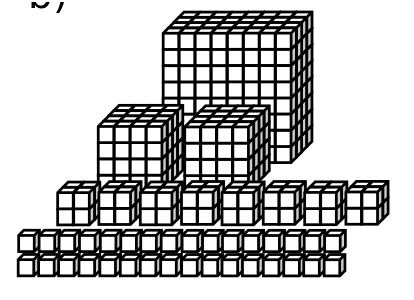
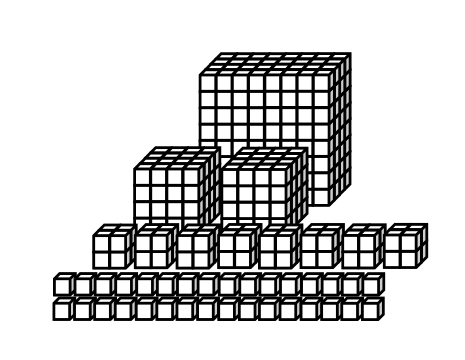
draft fragmentation 15april

diff --git a/docs/fragmentation.html b/docs/fragmentation.html
@@ -80,11 +80,11 @@
 	
 	<p>
 	Plastic fragments make up the majority of oceanic plastic pollution in terms of abundance. How plastics fragment, and how this can be modelled is not yet well understood, however.
-	In this work, we have taken a fragmentation model which has been used before to model how rocks fragment over time <a href="#references">[1]</a>. 
+	In this work, we take a fragmentation model which has been used to model how rocks fragment over time <a href="#references">[1]</a>. 
 	This fragmentation model breaks down objects in a cascading fashion: fragments split off from an initial object, and smaller fragments are split off from the newly created fragments repeatedly. 
 	We then calibrate the fragmentation model to data from experimental studies on plastic fragmentation.
 	</p>
-	The fragmentation model is coupled to a simple box model, in which plastic particles can travel between the beach, coastal water, and open ocean. 
+	The fragmentation model is coupled to a conceptual box model, in which plastic particles can travel between the beach, coastal water, and open ocean. 
 	Fragmentation is assumed to only happen on the beach, and size-dependent transport processes are added to the model, such as vertical mixing in the water column, beaching, and resuspension.
 	The box model is calibrated to represent <a href="mediterranean.html">plastic transport in the Mediterranean Sea</a>.  
 	</p>
@@ -95,7 +95,6 @@
     	<small>author: <a href="https://www.uu.nl/medewerkers/MLAKaandorp">Mikael Kaandorp</a>, date: April 2021</small>
     </p>
     <a href="#abstract_expanded" class="collapsed btn btn-primary" data-toggle="collapse" aria-expanded="true">Read the scientific abstract</a>
-	<a class="collapsed btn btn-primary" href="#results">Go to the results</a>
 	<a class="collapsed btn btn-primary" href="https://iopscience.iop.org/article/10.1088/1748-9326/abe9ea"  target="_blank">Go to the article in Environmental Research Letters</a>
 	
   <div id="abstract_expanded" class="collapse" role="tabpanel">
@@ -129,10 +128,19 @@
     </div>
     <div class="col align-self-center">
     <p class="card-text">
-	In the TOPIOS project, we try to get an overview of where all the plastics are in the marine environment. What are the sources of marine plastics, how are they transported, and where do they end up?
+	In the TOPIOS project, we try to get an overview of where all the plastics are in the marine environment. 
+	What are the sources of marine plastics, how are they transported, and where do they end up?
     </p>
     <p>
-	Majority of pollution in terms of abundance, no real models exist, so hard to quantify its effect on the mass budget
+	Previously, we have estimated the most important <a href="mediterranean.html">sources and sinks of marine plastics in the Mediterranean Sea.</a> 
+	In that study, we neglected the effect of fragmentation, based on the fact that the time scale of this process as an environmental sink of plastics 
+	is likely much longer than other sinks such as beaching and sinking of plastics <a href="#references">[2]</a>.
+	</p>
+	<p>	
+	However, we know that fragmentation plays an important role as a source of secondary microplastics <a href="#references">[3]</a>. 
+	For example, in the lower figure we see plastic fragments collected in the surface water of the North Atlantic Gyre. Most of the plastic particles are clearly fragments from bigger objects.
+	We see that fragments dominate plastic pollution in terms of abundance. Models for plastic fragmentation are lacking, however, and its effect on the plastic mass budget is relatively unknown.
+	The goal of this research is to fill these missing gaps of knowledge.  
     </p>
     </div>
   </div>
@@ -148,7 +156,20 @@
     </div>
     <div class="col align-self-center">
       <p class="card-text">
-		"Lorem ipsum dolor sit amet, consectetur adipiscing elit, sed do eiusmod tempor incididunt ut labore et dolore magna aliqua. Ut enim ad minim veniam, quis nostrud exercitation ullamco laboris nisi ut aliquip ex ea commodo consequat. Duis aute irure dolor in reprehenderit in voluptate velit esse cillum dolore eu fugiat nulla pariatur. Excepteur sint occaecat cupidatat non proident, sunt in culpa qui officia deserunt mollit anim id est laborum."
+		Plastic pollution is dominated by fragments when looking at the total number of particles. Most of the fragments which are found in the surface water of the 
+		ocean are only a couple of millmeters in size.
+	</p>
+	<p>
+		We can quantify the sizes of the plastic particles that we find using a Particle Size Distribution (PSD). One example is plotted in the lower
+		figure, using observational data from the surface water by <a href="#references">Cozar et al. (2015) [4]</a>. The length of the particles is plotted on the x-axis,
+		the amount of particles at this given length is plotted on the y-axis. Note the log-log scale here.
+	</p>
+	<p>
+		What has been observed, is that a large part of the Particle Size Distribution follows a power law, leading to a straight line 
+		on a log-log scale. Power laws are very interesting mathematical relations which have been found in many fields of study, 
+		ranging from city population sizes to the number of citations per scientific paper <a href="#references">[5]</a>.
+		Power laws are often observed in scale invariant processes, which means that a process acts similarly on all kinds of (spatial) scales.
+		One can think of fractals, where however far one zooms in into an image, the same structure is observed. 
 	</p>
     </div>
   </div>
@@ -157,19 +178,36 @@
 
   <h2 id="fragmentation">A fragmentation model from outer space</h2>
   <div class="row">
-    <div class="col-lg-7" style="margin-bottom: 20px">
+    <div class="col-lg-6" style="margin-bottom: 20px">
       <img src="images/fragmentation/Cubes.png" style="text-align: center" width=80% alt="">
     	<iframe style="position: relative; height: 400px; width: 100%;"
-		src="https://www.youtube.com/embed/fqn7rDfHqU0?version=3&loop=1&playlist=fqn7rDfHqU0">
+		src="https://www.youtube.com/embed/5uRT0A2N__A?version=3&loop=1&playlist=5uRT0A2N__A">
 		</iframe> 
     </div>
     <div class="col align-self-center">
     <p class="card-text">
-		The virtual plastic particles are released at different locations, where we expect a lot of plastic input, see the figure on the left. 
+		Scale invariant behavior has been observed in the fragmentation of rocks, leading to power laws when looking for example at grain sizes in soils <a href="#references">[7]</a>. 
+    	In our work, we have taken an existing fragmentation model from soil science, and adapted it to our problem of plastic pollution.
     </p><p>
-    	The different <strong>sources</strong> taken in account are: river mouths (green circles) <a href="#references">[3]</a>, fishing activity (blue shading) <a href="#references">[4]</a>, and densely populated coastal areas (red shading) <a href="#references">[5][6]</a>. 
+		The fragmentation model that we use is the one by <a href="#references">Charalambous (2015) [1]</a>. This model has been used to simulate
+		the size distributions of rocks on Mars <a href="#references">[8]</a>. 
     </p><p>
-    	It is currently not well known how much each source contributes to the total amount of plastic pollution. We therefore set the importance of the sources as a <strong>parameter</strong> in the model.
+		The basis of this model is quite straightforward, and builds further on the model by <a href="#references">Turcotte (1986) [9]</a>. 
+		We start with a big cube, with length <i>L</i>. Fragments will split off from this cube, with a length <i>L/2</i>. Fragments will split off from these fragments, with a length <i>L/4</i>.
+		Each fragment is further split into smaller fragments repeatedly, and each time the length decreases by a factor of 2. This process repeats itself until infinity.		
+    </p>
+	<p>
+		The probability that a fragment splits off from a bigger object is determined by a fragmentation probability <i>p</i>, which is a parameter that can be set in the model.
+		In the upper figure, we have plotted an example for <i>p = 1/2</i>.
+    </p>
+	<p>
+		This cascade of fragmentation can be repeated again and again, each time creating more and more small fragments.
+		In <a href="#references">Charalambous (2015) [1]</a> this fragmentation process was formulated as a continuous process in time.
+		We use this model to simulate the continuously breaking down of plastics in the marine environment. 
+    </p>
+	<p>
+		In the animation, we simulate what would happen with the Particle Size Distribution if we break down a single object over time. The original object is broken down into more and more fragments as time progresses.
+		At some point in time, a power law is reached in the Particle Size Distribution. If we continue the fragmentation process, eventually there is almost nothing left of the original object.
     </p>
     </div>
   </div>
@@ -178,17 +216,30 @@
 
   <h2 id="environment">Environmental transport</h2>
   <div class="row">
-    <div class="col-lg-7" style="margin-bottom: 20px">
+    <div class="col-lg-6" style="margin-bottom: 20px">
 		<img src="images/fragmentation/Box_model.png" style="text-align: center" width=100% alt="">
     </div>
     <div class="col align-self-center">
     <p class="card-text">
-		Environmental <strong>sinks</strong> of plastic are added to the model. We consider plastic particles <strong>sinking down</strong> (due to e.g. biofouling <a href="#references">[7]</a>), and plastic particles <strong>ending up on beaches</strong> as the most important sinks.
-    </p><p>
-    	It is currently not well known what is the most important environmental sink. We therefore <strong>parametrize</strong> the sinks to be able to test different scenarios. 
-    </p><p>
-    	With the parametrization for the sinks, we can now calculate the probability that a plastic particle is still afloat. This is displayed in the animation on the left: particles light up in red when they disappear due to beaching. By combining the sinks with the source parametrization, we can calculate the amount of floating plastic particles at a given <strong>location</strong> at a given <strong>time</strong>. 
+		We now have a model which captures how plastics could be broken down over time. This is one part of the puzzle to explain the shape of Particle Size Distributions measured in the environment.
     </p>
+    <p>
+    	The other part of the puzzle is environmental transport. Each particle size undergoes different kinds of transport in the environment. Think for example of vertical mixing. 
+    	Small particles are less buoyant. This means they tend to be more mixed in the water column <a href="#references">[10]</a>. This has multiple implications:
+    	if one measures particles at the water surface, small particles are likely undersampled. Furthermore, differently sized particles likely experience different influences by surface waves (i.e. Stokes drift),
+    	which have a limited depth of influence. 
+    </p>
+    <p>
+    	We capture environmental transport using a conceptual box model. Plastic particles can move between the open ocean, coastal water, and beach. 
+    	Transport is defined by transition probabilities, shown by the arrows in the figure. Particle can more between the different cells in the model.
+    	Particles can also be removed from the environment by sinks (e.g. by sinking down induced by biofouling <a href="#references">[11]</a>)
+    </p>
+    <p>
+		We calibrate the box model using estimated plastic transport in the <a href="mediterranean.html">Mediterranean Sea.</a> 
+		We have estimates of the total plastic input <a href="#references">[2]</a> and how much is afloat <a href="#references">[4]</a>, 
+		from which we estimate the probabilities that plastics are removed from the environment. Lagrangian particle simulations are used to estimate 
+		transport between the different cells <a href="#references">[2]</a>. We assume fragmentation is dominant on the beach, 
+		where plastics are subjected to UV radiation, oxidation, and mechanical abrasion <a href="#references">[12]</a>.
     </div>
   </div>
   
@@ -202,11 +253,18 @@
     </div>
     <div class="col align-self-center">
     <p class="card-text">
-		Now that we have a model with possible sources and sinks of floating plastic particles, it is time to start comparing our model with in situ measurements of plastic concentrations.
+		We calibrate the fragmentation model to experimental weathering data of plastic particles by <a href="#references">Song et al. (2017) [12]</a>.
+		From the experimental weathering data, we used results for polyethylene and polypropylene, which are the most commonly found polymers in the surface waters <a href="#references">[13]</a>.
     </p><p>
-    	About a thousand measurements of plastic concentrations were gathered from literature. By using a neuston net, researchers have measured the plastic concentration at different locations and times in the Mediterranean: see the animation on the left.
+		In the upper figure, we see the fragmentation model calibrated to different amounts of UV weathering time. Two parameters were calibrated in the fragmentation model:
+		the fragmentation probability <i>p</i> mentioned previously, and a fragmentation index <i>f</i> relating time in the fragmentation model to environmental exposure time.
+    	The model does quite a good job in fitting the experimental data: most results are within the errorbars resulting from measurement uncertainty. 
+    </p>
     </p><p>
-    	We will try to find out what the parameters for the sources and sinks should be, such that our model matches these observations as well as possible. This is what we call <strong>inverse modelling</strong>. In this process we try out a lot of parameter combinations, to see what the most likely values are.
+		We coupled the fragmentation model to the environmental box model from the previous section. A resulting Particle Size Distribution is presented in the lower figure.
+		The solid blue line represents the model results. The dashed blue line represents the model results when we include vertical mixing of particles in the water column.
+		Smaller particles are less bouyant and therefore mixed deeper into the water column. Nets used to measure plastics in the surface water have a limited submerged net depth, 
+		resulting in underestimating the small particle sizes. This corresponds well to the example measurements from the Mediterranean Sea presented using the orange line <a href="#references">[14]</a>. 
     </p>
     </div>
   </div>
@@ -216,16 +274,31 @@
   <h2 id="sensitivity">Sensitivity study: environmental (size-dependent) transport and fragmentation</h2>
   <div class="row">
     <div class="col-lg-5" style="margin-bottom: 20px">
-		<img src="images/fragmentation/Sensitivity.png" style="text-align: center" width=100% alt="">
+		<img src="images/fragmentation/Sensitivity.png" style="text-align: center" width=80% alt="">
     </div>
     <div class="col align-self-center">
     <p class="card-text">
-		The importance of the different sources and sinks of floating plastic are found using the inverse modelling process described above.
+		The fragmentation model coupled to the environmental box model allows us to quickly test hypotheses regarding plastic fragmentation and transport in the environment.
+    	We show one example in the figure on the left, where we included the effect of size-dependent resuspension (particles moving from the dry beach into the water).
     </p><p>
-    	The most important source of plastic in the Mediterranean is likely the densely populated coastal areas: these are estimated to contribute to 61% of the pollution. Rivers are estimated to contribute to 32% of the pollution, fishing activity to 6%.
-    </p><p>
-    	There is a roughly equal amount of plastic particles ending up on beaches and plastic particles sinking down. A map of where the plastic particles are expected to end up is shown on the left.
+		In <a href="#references">Hinata et al. (2017) [15]</a>, it was observed that larger particles tend to have longer residence time on beaches, 
+		as these are more likely to be carried further onshore by waves compared to smaller particles. 
+		We tested the effect of this size-dependent resuspension hypothesis on Particle Size Distributions in the environment
     </p>
+	<p>
+		We see that this size-dependent resuspension (orange lines) would greatly increase the effect of fragmentation compared to a scenario without this effect (blue lines).
+		With size-dependent resuspension, larger particles would reside longer on beaches and therefore undergo more fragmentation. 
+		This increases the amount of smaller plastic fragments in the environment, and increases the slope of the Particle Size Distributions.
+    </p>
+	<p>
+		We tested multiple scenario's in our <a href="https://iopscience.iop.org/article/10.1088/1748-9326/abe9ea" target="_blank">paper</a>, such as size-dependent vertical mixing, influence by Stokes drift, and different fragmentation scenario's based on different polymers. 
+    </p>    
+	<p>
+		For a realistic scenario, the model finds that in the Mediterranean 98% of plastics reside on beaches, 2% in coastal surface waters, and 0.2% in the surface open ocean.
+		Fragmentation plays an important role as a source of secondary microplastics. It seems to play a minor role in the plastic mass budget, however.
+		As a rough estimate, we think that less than 0.0001% of macroplastic mass breaks down into microplastics per week, and less than 0.0001% of microplastic mass breaks down into plastics smaller than 0.1mm per week.
+		These numbers are much lower than other sinks (such as beaching and sinking down of plastics), which we estimate take up about 0.05% of plastic mass per week. 
+    </p> 
     </div>
   </div>
   
@@ -236,13 +309,15 @@
   <h2 class="display-5" style="text-align: center; id="conclusions">Conclusions and outlook</h2>
 	
     <p>
-      	By combining a model of floating particles with measurements of plastic concentrations, we tried to get a better overview of plastic pollution in the Mediterranean Sea. This kind of analysis can be used to answer questions like: <strong>what causes most plastic pollution</strong> and <strong>where is plastic pollution a problem</strong>.
-    </p><p>
-    	Future work will focus on making the model more realistic, by taking for example in account how plastic particles fragment into smaller pieces over time. More measurements can be included from beaches and sea sediment as well, and the approach can be extended globally. What happens to plastic particles once they start sinking down can be taken in account by using the entire 3D flow field instead of only the surface water.
-    </p><p>
-    	For more information, you can have a look at our <a href="https://iopscience.iop.org/article/10.1088/1748-9326/abe9ea" target="_blank">scientific paper in Environmental Research Letters</a>, or send us an email.
+		We implemented a model for plastic fragmentation by looking at fragmentation models used for rock fragmentation.
+		The fragmentation model was couples to an environmental box model, to capture the effect of size-dependent transport of plastic particles in the marine environment.
+		This coupled model was used to simulate Particle Size Distributions of plastics in water and on beaches. 
     </p>
-    
+    <p>
+		We find that fragmentation plays an important role as a source of secondary microplastics, but that it seems to play a minor role as a sink of plastic mass.
+		The combined fragmentation model and environmental box model is an efficient tool to quickly test out different hypotheses regarding fragmentation, sources, and sinks of plastics.
+		In the future, we hope to couple the fragmentation model to more complex physical models, capturing spatial and temporal variability of plastic transport using for example Lagrangian particle simulations.
+    </p>    
 	<hr>
 	</div>
 
@@ -251,6 +326,48 @@
     <div class="col-lg-9" style="margin-bottom: 20px">
     <p style="color:#9E9E9E">
 	[1] Charalambous 2015
+    </p>	
+    <p style="color:#9E9E9E">
+	[2] Kaandorp 2020
+    </p>
+    <p style="color:#9E9E9E">
+	[3] Secondary microplastics?
+    </p>
+    <p style="color:#9E9E9E">
+	[4] Cozar
+    </p>
+    <p style="color:#9E9E9E">
+	[5] Power laws
+    </p>
+   <p style="color:#9E9E9E">
+	[7] power laws in soils?
+    </p>
+   <p style="color:#9E9E9E">
+	[8] Mars soils
+    </p>
+   <p style="color:#9E9E9E">
+	[9] Turcotte
+    </p>
+   <p style="color:#9E9E9E">
+	[10] Poulain
+    </p>
+   <p style="color:#9E9E9E">
+	[11] Lobelle?
+    </p>
+   <p style="color:#9E9E9E">
+	[11.5] Dominant on beaches
+    </p>
+   <p style="color:#9E9E9E">
+	[12] Song 2017
+    </p>
+   <p style="color:#9E9E9E">
+	[13] Bond
+    </p>
+   <p style="color:#9E9E9E">
+	[14] Ruiz-Orejon
+    </p>
+   <p style="color:#9E9E9E">
+	[15] Hinata
     </p>
     </div>
     </div>
